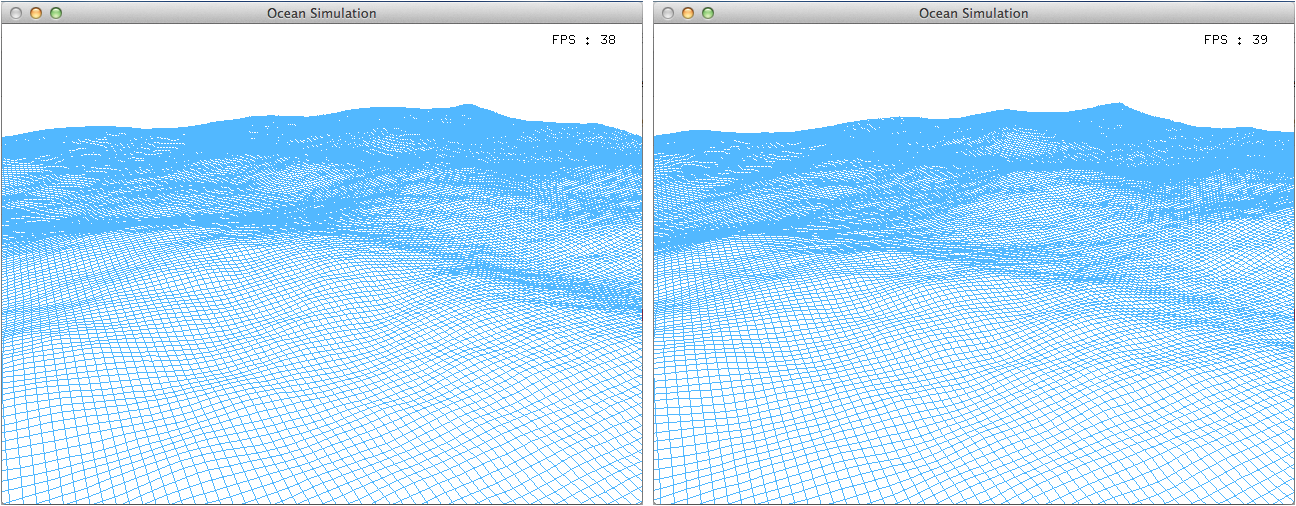
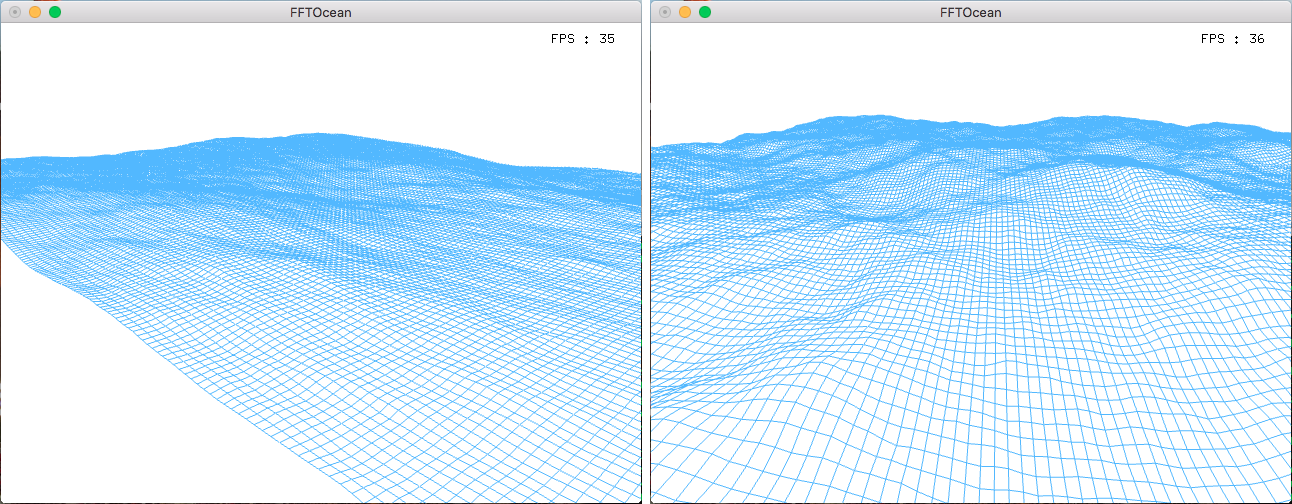
new screenshot

diff --git a/src/main.cpp b/src/main.cpp
@@ -22,12 +22,12 @@ int main (int argc, char** argv) {
     /* ocean parameters */
     const double lx             = 170;
     const double ly             = 350;
-    const int    nx             = 64;
+    const int    nx             = 128;
     const int    ny             = 128;
-    const double wind_speed     = 50;
-    const int    wind_alignment = 2;
+    const double wind_speed     = 100;
+    const int    wind_alignment = 1;
     const double min_wave_size  = 0;
-    const double A              = 0.000003;
+    const double A              = 0.000006;
     
     Philipps philipps(lx, ly, nx, ny, wind_speed, wind_alignment, min_wave_size, A);  /* Philipps spectrum */
     Height   height(nx, ny);                                                          /* initial wave height field */
